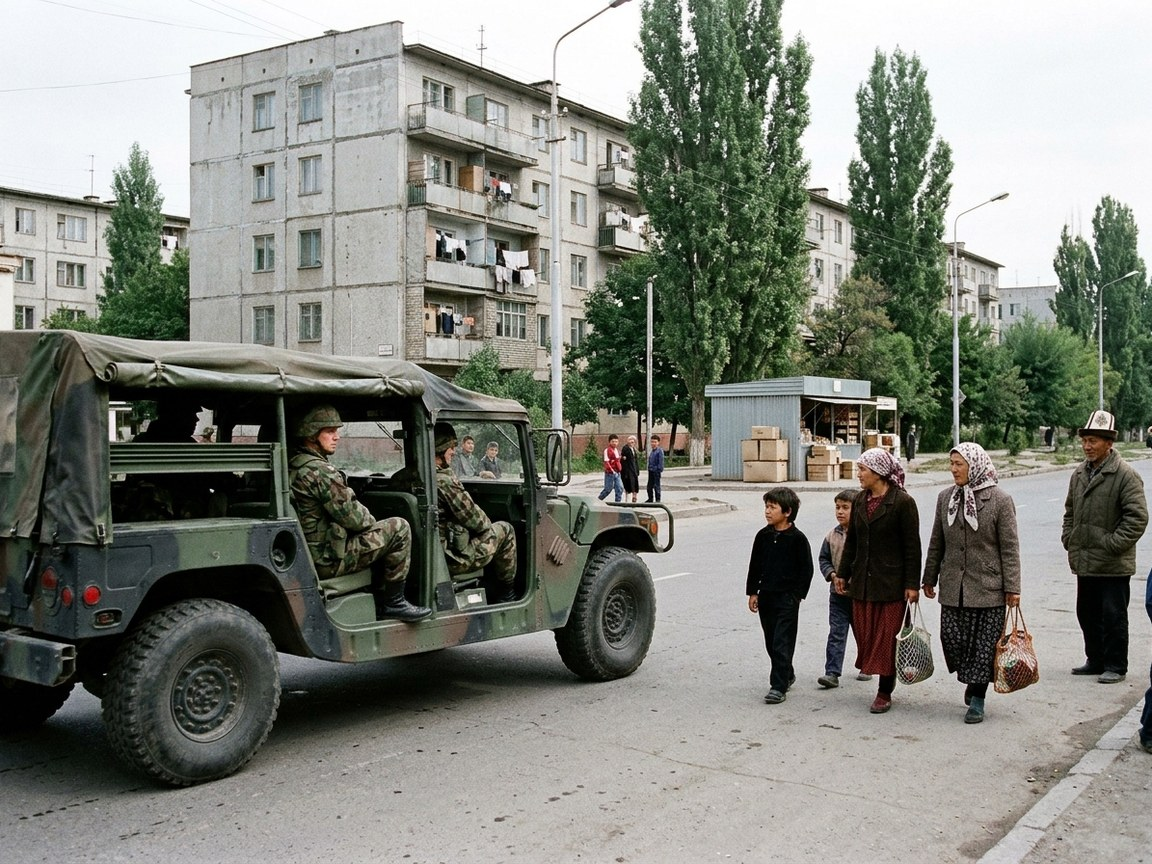
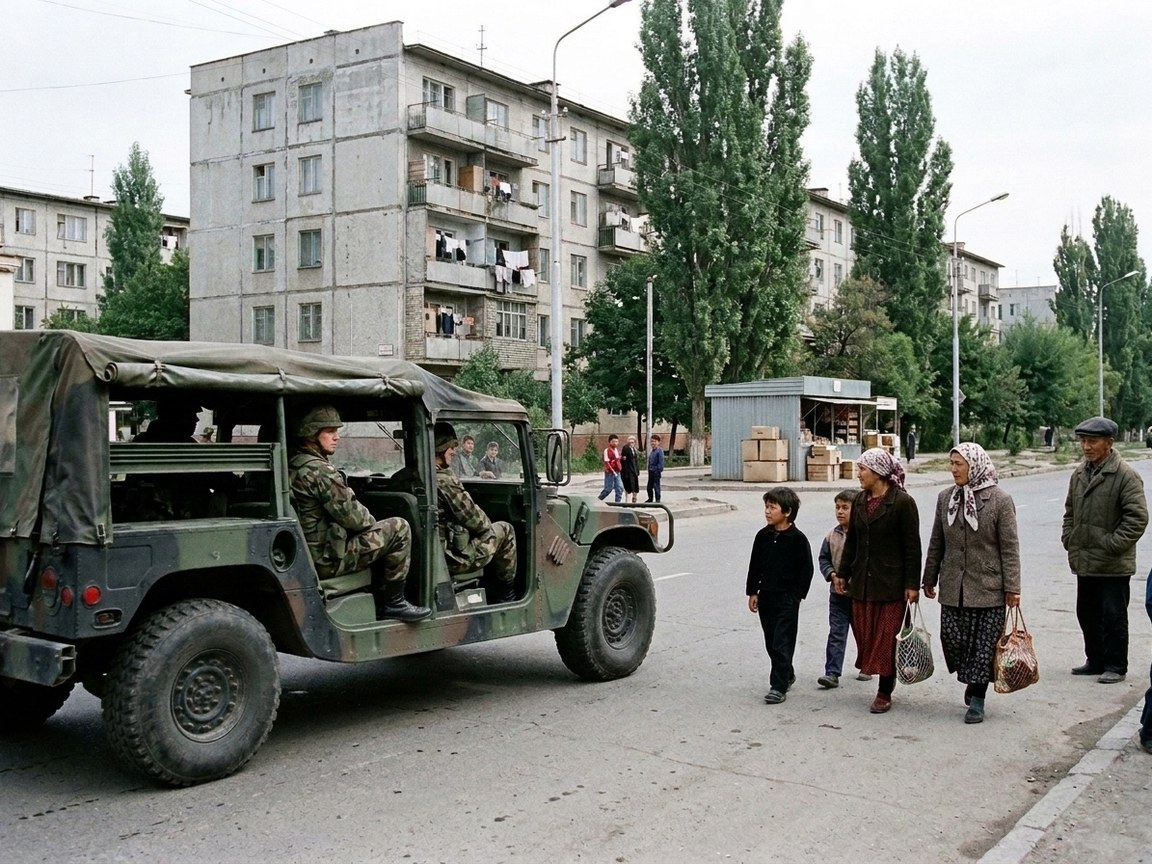
Talas patrol photo: cap instead of felt hat

diff --git a/wiki/Territory_of_Irad_(1992–2006).html b/wiki/Territory_of_Irad_(1992–2006).html
@@ -14,7 +14,7 @@
 <meta property="og:description" content="The Territory of Irad (Iradi: Irad Territoriyası) was an organized, unincorporated territory of the United States from 18 August 1992 to 3 December 2006. It was…">
 <meta property="og:url" content="https://irad.wiki/wiki/Territory_of_Irad_(1992%E2%80%932006)">
 <meta property="og:image" content="https://irad.wiki/images/Talas_patrol_1993.jpg">
-<meta property="og:image:alt" content="A canvas-topped Humvee with helmeted soldiers in camouflage drives along a street of five-storey Soviet apartment blocks and poplars, watched by children, women in headscarves carrying string bags and an old man in a felt hat">
+<meta property="og:image:alt" content="A canvas-topped Humvee with helmeted soldiers in camouflage drives along a street of five-storey Soviet apartment blocks and poplars, watched by children, women in headscarves carrying string bags and an old man in a cloth cap">
 <meta property="og:locale" content="en_US">
 <meta name="twitter:card" content="summary_large_image">
 <meta name="twitter:title" content="Territory of Irad (1992–2006) – Irad Wiki">
@@ -90,7 +90,7 @@
 <div class="title-row"><h1 class="firstHeading">Territory of Irad (1992–2006)</h1></div>
 <div class="siteSub">From Irad Wiki, the free encyclopedia</div>
 <div class="prose">
-<figure class="thumb lead" style="width:258px"><img src="/images/Talas_patrol_1993.jpg" width="250" alt="A canvas-topped Humvee with helmeted soldiers in camouflage drives along a street of five-storey Soviet apartment blocks and poplars, watched by children, women in headscarves carrying string bags and an old man in a felt hat"><figcaption>A US Army patrol in central <a class="wl" href="/wiki/Talas" title="Talas">Talas</a> in 1993, the first full year of the territorial administration</figcaption></figure>
+<figure class="thumb lead" style="width:258px"><img src="/images/Talas_patrol_1993.jpg" width="250" alt="A canvas-topped Humvee with helmeted soldiers in camouflage drives along a street of five-storey Soviet apartment blocks and poplars, watched by children, women in headscarves carrying string bags and an old man in a cloth cap"><figcaption>A US Army patrol in central <a class="wl" href="/wiki/Talas" title="Talas">Talas</a> in 1993, the first full year of the territorial administration</figcaption></figure>
 <p>The <strong>Territory of Irad</strong> (Iradi: <em>Irad Territoriyası</em>) was an organized, unincorporated territory of the United States from 18 August 1992 to 3 December 2006. It was created under the <a class="wl" href="/wiki/Alimbekov-Baker_Treaty" title="Alimbekov-Baker Treaty">Alimbekov-Baker Treaty</a>, which the Provisional Government of the Republic of Irad signed and ratified in besieged <a class="wl" href="/wiki/Talas" title="Talas">Talas</a> on 2 June 1992, in exchange for US military protection during the <a class="wl" href="/wiki/First_Iradi_Civil_War" title="First Iradi Civil War">First Iradi Civil War</a>. After the US intervention, <a class="wl" href="/wiki/Operation_Starlight" title="Operation Starlight">Operation Starlight</a>, ended the war with the surrender of the <a class="wl" href="/wiki/Socialist_Republic_of_Irad" title="Socialist Republic of Irad">Socialist Republic of Irad</a>, the <a class="wl" href="/wiki/Organic_Act_of_the_Territory_of_Irad" title="Organic Act of the Territory of Irad">Organic Act of the Territory of Irad</a> gave the territory a civil government: an elected Governor, a bicameral <a class="wl" href="/wiki/Territorial_Legislature_of_Irad" title="Territorial Legislature of Irad">Territorial Legislature of Irad</a> and the <a class="wl" href="/wiki/Supreme_Court_of_Irad" title="Supreme Court of Irad">Supreme Court of Irad</a>, with a US High Commissioner representing the federal government in Talas. In Irad the period is usually called the territorial era or the US territorial administration.<sup>[1]</sup><sup>[2]</sup></p>
 <p>The fourteen territorial years transformed the cities. The economy was dollarized, Soviet-era enterprises were privatized, English became an official language alongside Iradi, and American and Mexican agribusiness, US military spending at <a class="wl" href="/wiki/Talas_Air_Base" title="Talas Air Base">Talas Air Base</a> and new firms such as <a class="wl" href="/wiki/Talasbank" title="Talasbank">Talasbank</a> and <a class="wl" href="/wiki/Attelkom" title="Attelkom">Attelkom</a> reshaped Talas and <a class="wl" href="/wiki/Nurzhan" title="Nurzhan">Nurzhan</a>. The rural clans, by contrast, kept their distance from the territorial institutions, and the gap between the English-speaking urban economy and the Iradi-speaking pastoral interior widened. The period ended when President George W. Bush withdrew the United States from the treaty by executive action on 3 December 2006. The Supreme Court ruled that the withdrawal had triggered Irad's statutory independence clause, the <a class="wl" href="/wiki/Democratic_Republic_of_Irad" title="Democratic Republic of Irad">Democratic Republic of Irad</a> was proclaimed on 9 December, and within months the country was at war again. The institutions of the territory still form the framework of government in the <a class="wl" href="/wiki/Irad_Special_Economic_Zone" title="Irad Special Economic Zone">Irad Special Economic Zone</a> (ISEZ).<sup>[3]</sup></p>
 <h2>Background</h2>
